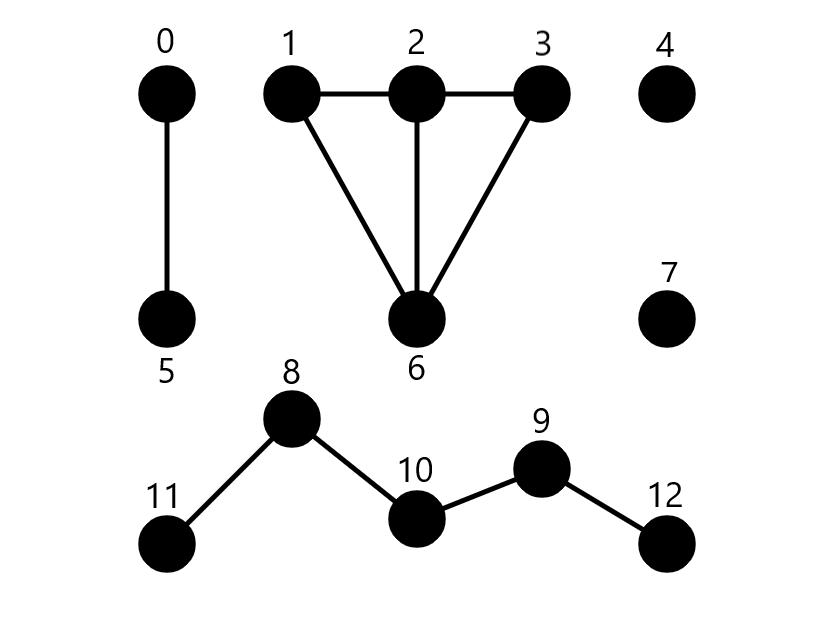
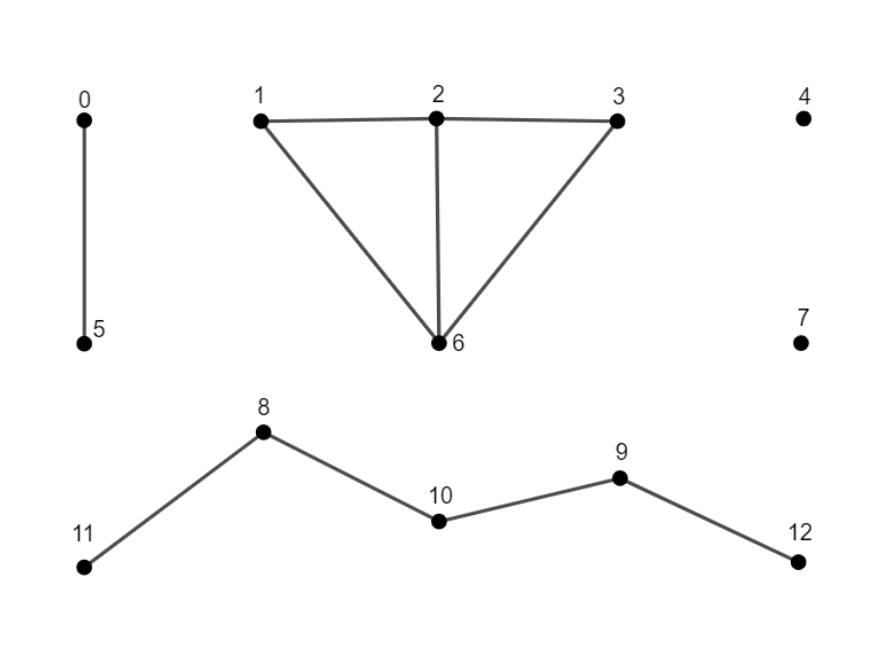
improved ex description, changed image, changed comment for descriptor float param, changed task description in SI

diff --git a/cpp/oneapi/dal/algo/connected_components/common.hpp b/cpp/oneapi/dal/algo/connected_components/common.hpp
@@ -74,9 +74,10 @@ protected:
 
 /// Class for the Connected Components algorithm descriptor
 ///
-/// @tparam Float       The floating-point type that the algorithm uses for
+/// @tparam Float       This parameter is not used for Connected Components algortihm.
+///                     The floating-point type that the algorithm uses for
 ///                     intermediate computations. Can be :expr:`float` or
-///                     :expr:`double`. This parameter is not used for Connected Components algortihm.
+///                     :expr:`double`. 
 /// @tparam Method      Tag-type that specifies the implementation of the algorithm. Can
 ///                     be :expr:`method::afforest`.
 /// @tparam Task        Tag-type that specifies the type of the problem to solve. Can

diff --git a/cpp/oneapi/dal/algo/connected_components/vertex_partitioning_types.hpp b/cpp/oneapi/dal/algo/connected_components/vertex_partitioning_types.hpp
@@ -62,13 +62,12 @@ public:
     /// Constructs the empty result
     vertex_partitioning_result();
 
-    /// Returns the table with computed component ids for each vertex
-    // represented as std::int64_t
+    /// The table of size [vertex_count x 1] with computed component ids for each vertex
     const table& get_labels() const {
         return get_labels_impl();
     }
 
-    /// Returns the number of connected components
+    /// The number of connected components
     // represented as std::int64_t
     int64_t get_component_count() const {
         return get_component_count_impl();

diff --git a/cpp/oneapi/dal/algo/subgraph_isomorphism/common.hpp b/cpp/oneapi/dal/algo/subgraph_isomorphism/common.hpp
@@ -25,7 +25,7 @@ namespace task {
 /// Tag-type that parameterizes entities that are used for Subgraph Isomorphism algorithm.
 struct compute {};
 
-/// Alias tag-type for dense computational method.
+/// Alias tag-type for the compute task.
 using by_default = compute;
 } // namespace task
 

diff --git a/docs/source/onedal/algorithms/graph/connected-components.rst b/docs/source/onedal/algorithms/graph/connected-components.rst
@@ -48,25 +48,21 @@ determine their quantity and label vertices so that vertices from the same compo
 .. rubric:: Example
 
 .. figure:: images/connected-components.png
-    :width: 300
+    :width: 600
     :align: center
     :alt:
  
-Сomponents are sorted in ascending order by lowest vertex id in each component 
-and numbered from :math:`0` to :math:`k-1`, where :math:`k` is the number of components.
+Сomponents are numbered from :math:`0` to :math:`k-1`, where :math:`k` is the number of components.
 For the example above, the labels for vertices are 
  
 [0, 1, 1, 1, 2, 0, 1, 3, 4, 4, 4, 4, 4]
 
 This notation means that:
-
-* vertex with id 0 belongs to connected component with id 0
-* vertices with ids 1, 2, 3 belongs to connected component with id 1
+* vertices with ids 0, 5 belong to connected component with id 0
+* vertices with ids 1, 2, 3, 6 belong to connected component with id 1
 * vertex with id 4 belongs to connected component with id 2
-* vertex with id 5 belongs to connected component with id 0
-* vertex with id 6 belongs to connected component with id 1
 * vertex with id 7 belongs to connected component with id 3
-* vertices with ids 8, 9, 10, 11, 12 belongs to connected component with id 4
+* vertices with ids 8, 9, 10, 11, 12 belong to connected component with id 4
 
 .. _connected_components_afforest:
 
